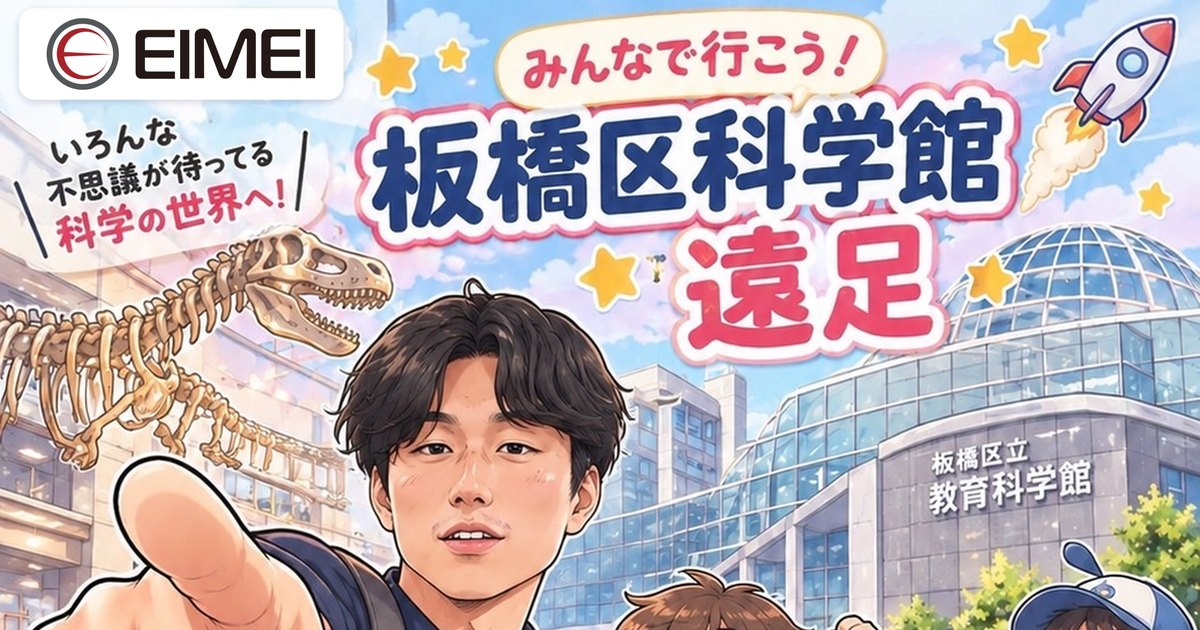
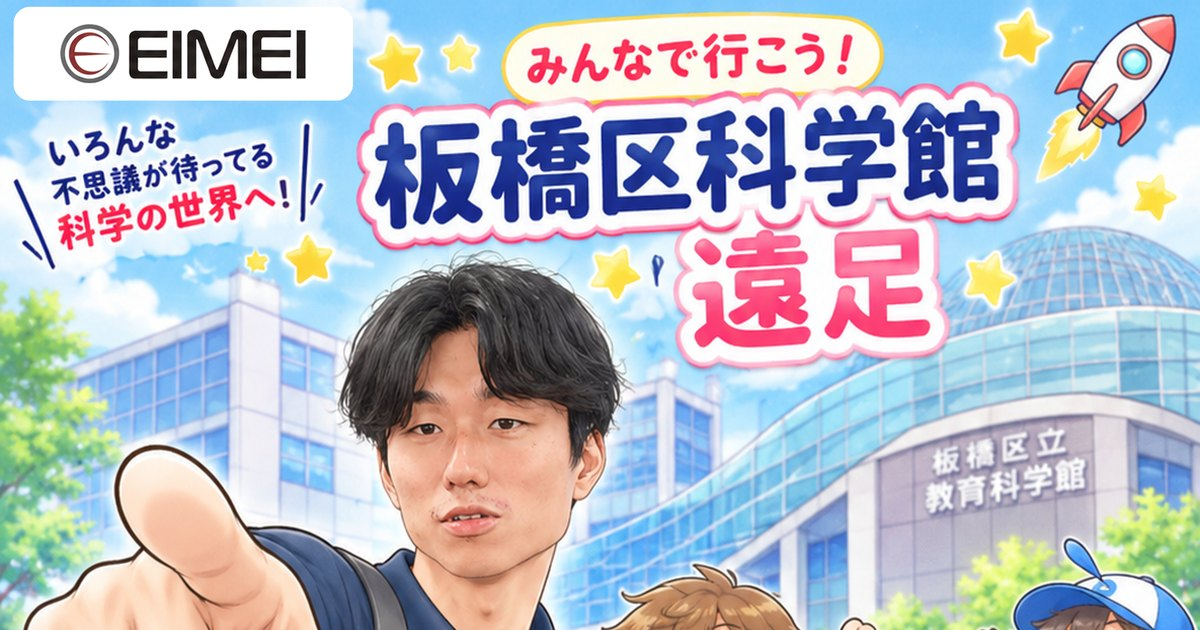
科学館LPのチラシ画像を修正版（お土産・電車賃・恐竜・出発）に差し替え
Claude-Session: https://claude.ai/code/session_015MFdFexvXc15YKCDsd3xFN

diff --git a/index.html b/index.html
@@ -11,7 +11,7 @@
 <meta property="og:type" content="website">
 <meta property="og:title" content="11/28(土) 板橋区科学館へ大冒険｜エイメイ水谷 小学生イベント">
 <meta property="og:description" content="プラネタリウムと20以上の体験展示。小1〜6年生対象・参加費無料。お申し込みは公式LINEから。">
-<meta property="og:image" content="https://eimei-event-lp.vercel.app/img/ogp.jpg?v=2">
+<meta property="og:image" content="https://eimei-event-lp.vercel.app/img/ogp.jpg?v=3">
 <meta property="og:url" content="https://eimei-event-lp.vercel.app/">
 <meta name="twitter:card" content="summary_large_image">
 <meta name="theme-color" content="#05081c">
@@ -319,7 +319,7 @@ body::before{content:"";position:fixed;inset:0 0 auto;height:env(safe-area-inset
       <p class="deadline">申込締切 <b>11/15（日）</b></p>
     </div>
     <figure class="specimen">
-      <img src="img/ensoku.jpg?v=2" alt="板橋区科学館遠足のチラシ。11月28日（土）9時みずほ台駅集合、参加費無料">
+      <img src="img/ensoku.jpg?v=3" alt="板橋区科学館遠足のチラシ。11月28日（土）9時みずほ台駅集合、参加費無料">
       <figcaption>FLYER No.2026-11</figcaption>
     </figure>
   </div>
